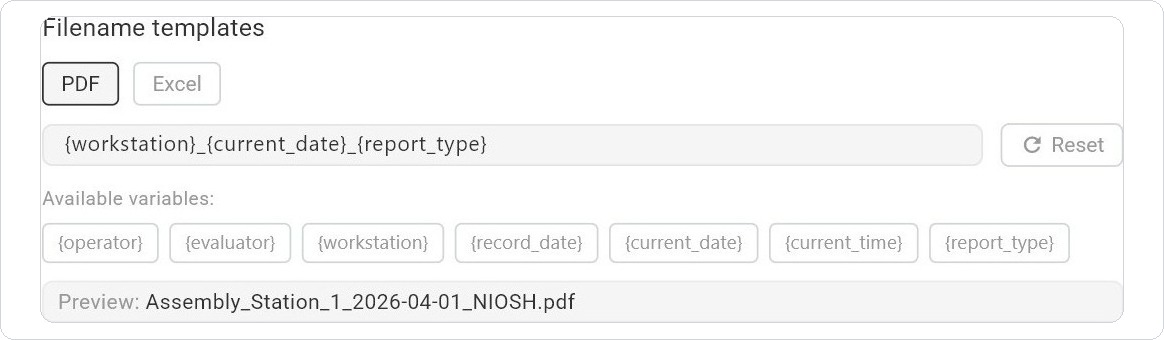
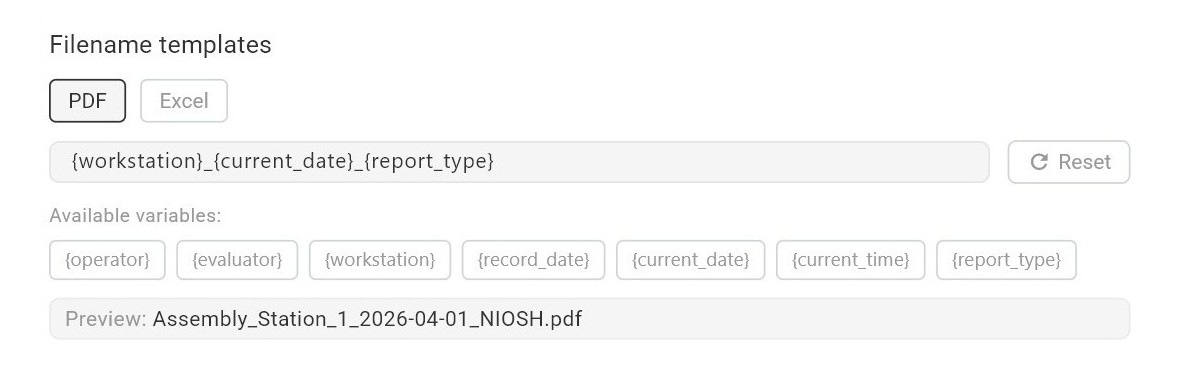
Restore CSS border; rebuild exportsettings.jpg from original with white padding only

diff --git a/articles/exporting-reports.html b/articles/exporting-reports.html
@@ -98,7 +98,7 @@
 
     /* Article figures / screenshots */
     .article-figure { margin: 28px 0; }
-    .article-figure img { display: block; width: 100%; border-radius: 10px; }
+    .article-figure img { display: block; width: 100%; border-radius: 10px; border: 1px solid var(--border); box-shadow: var(--shadow-sm); }
     .article-figure.figure-sm img { max-width: 520px; margin: 0 auto; }
     .article-figure figcaption { font-size: 12px; color: var(--muted); margin-top: 8px; text-align: center; line-height: 1.5; }
 